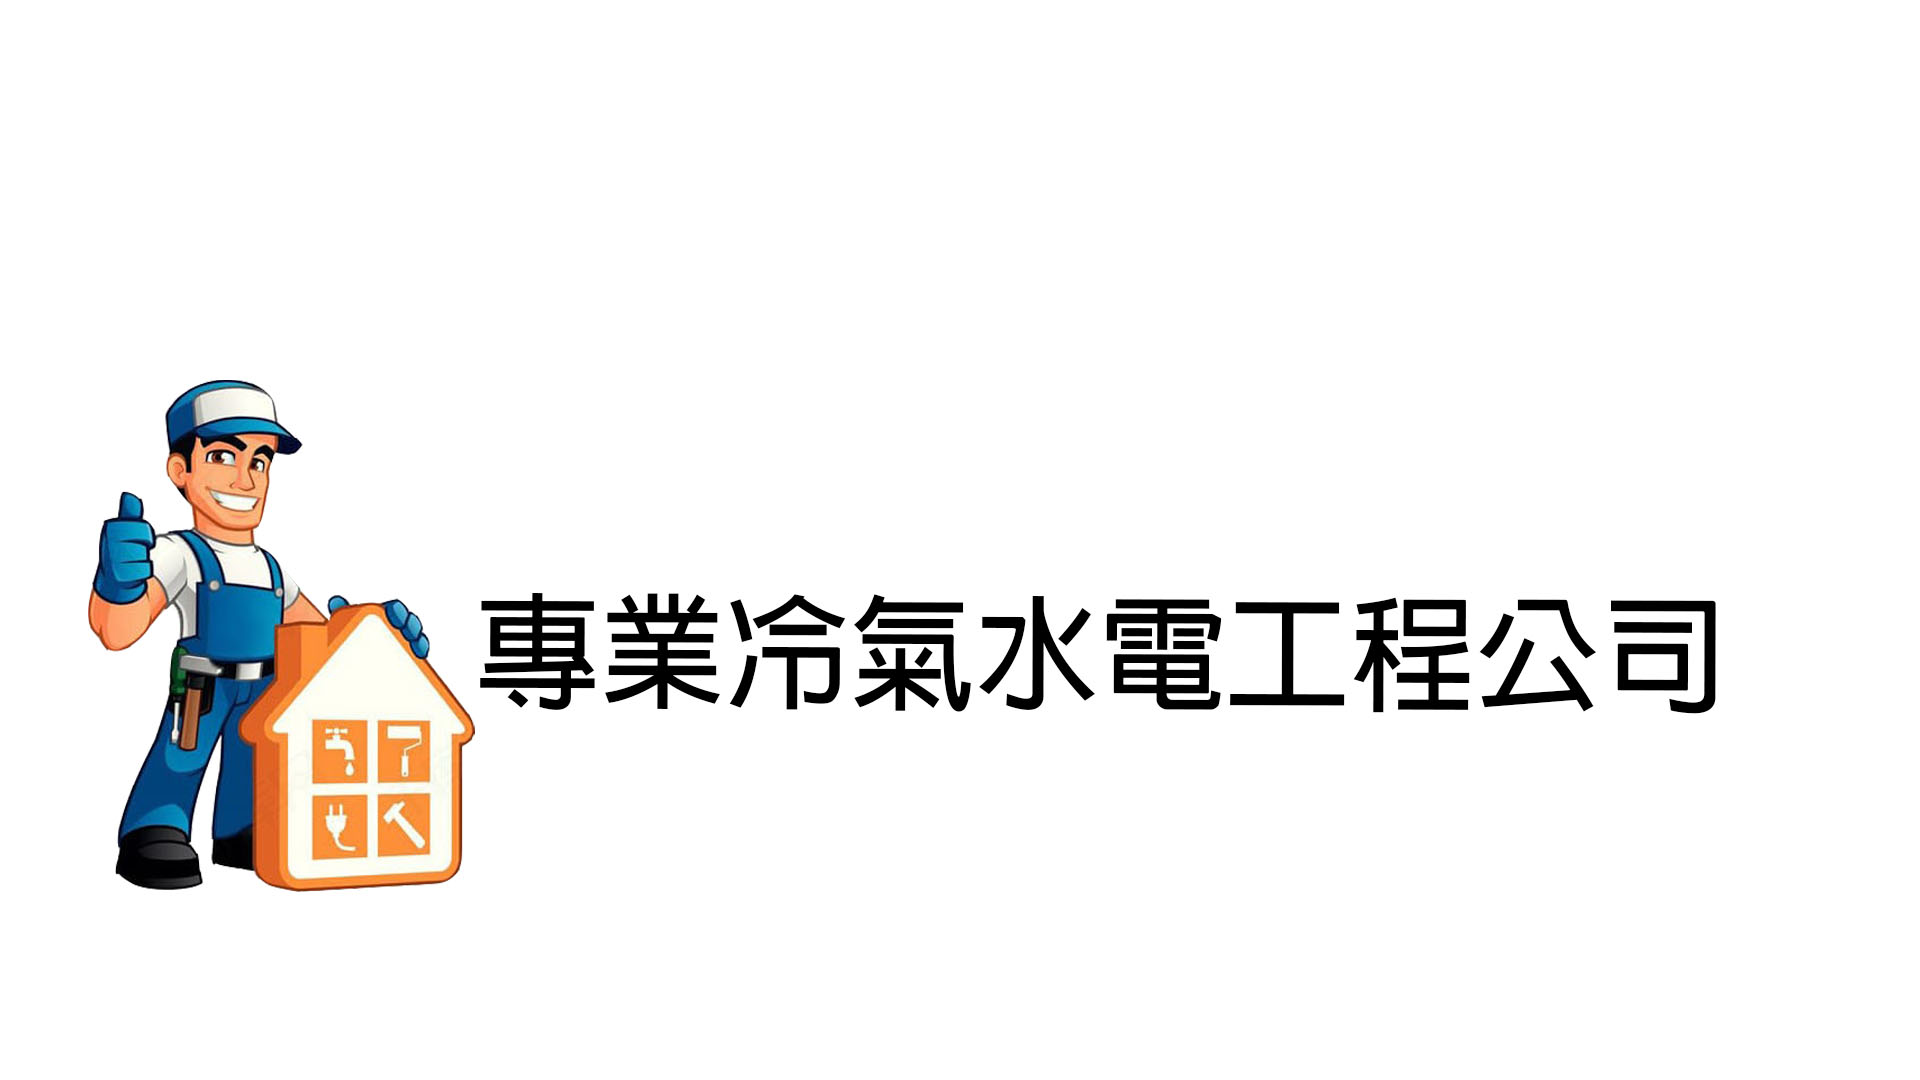
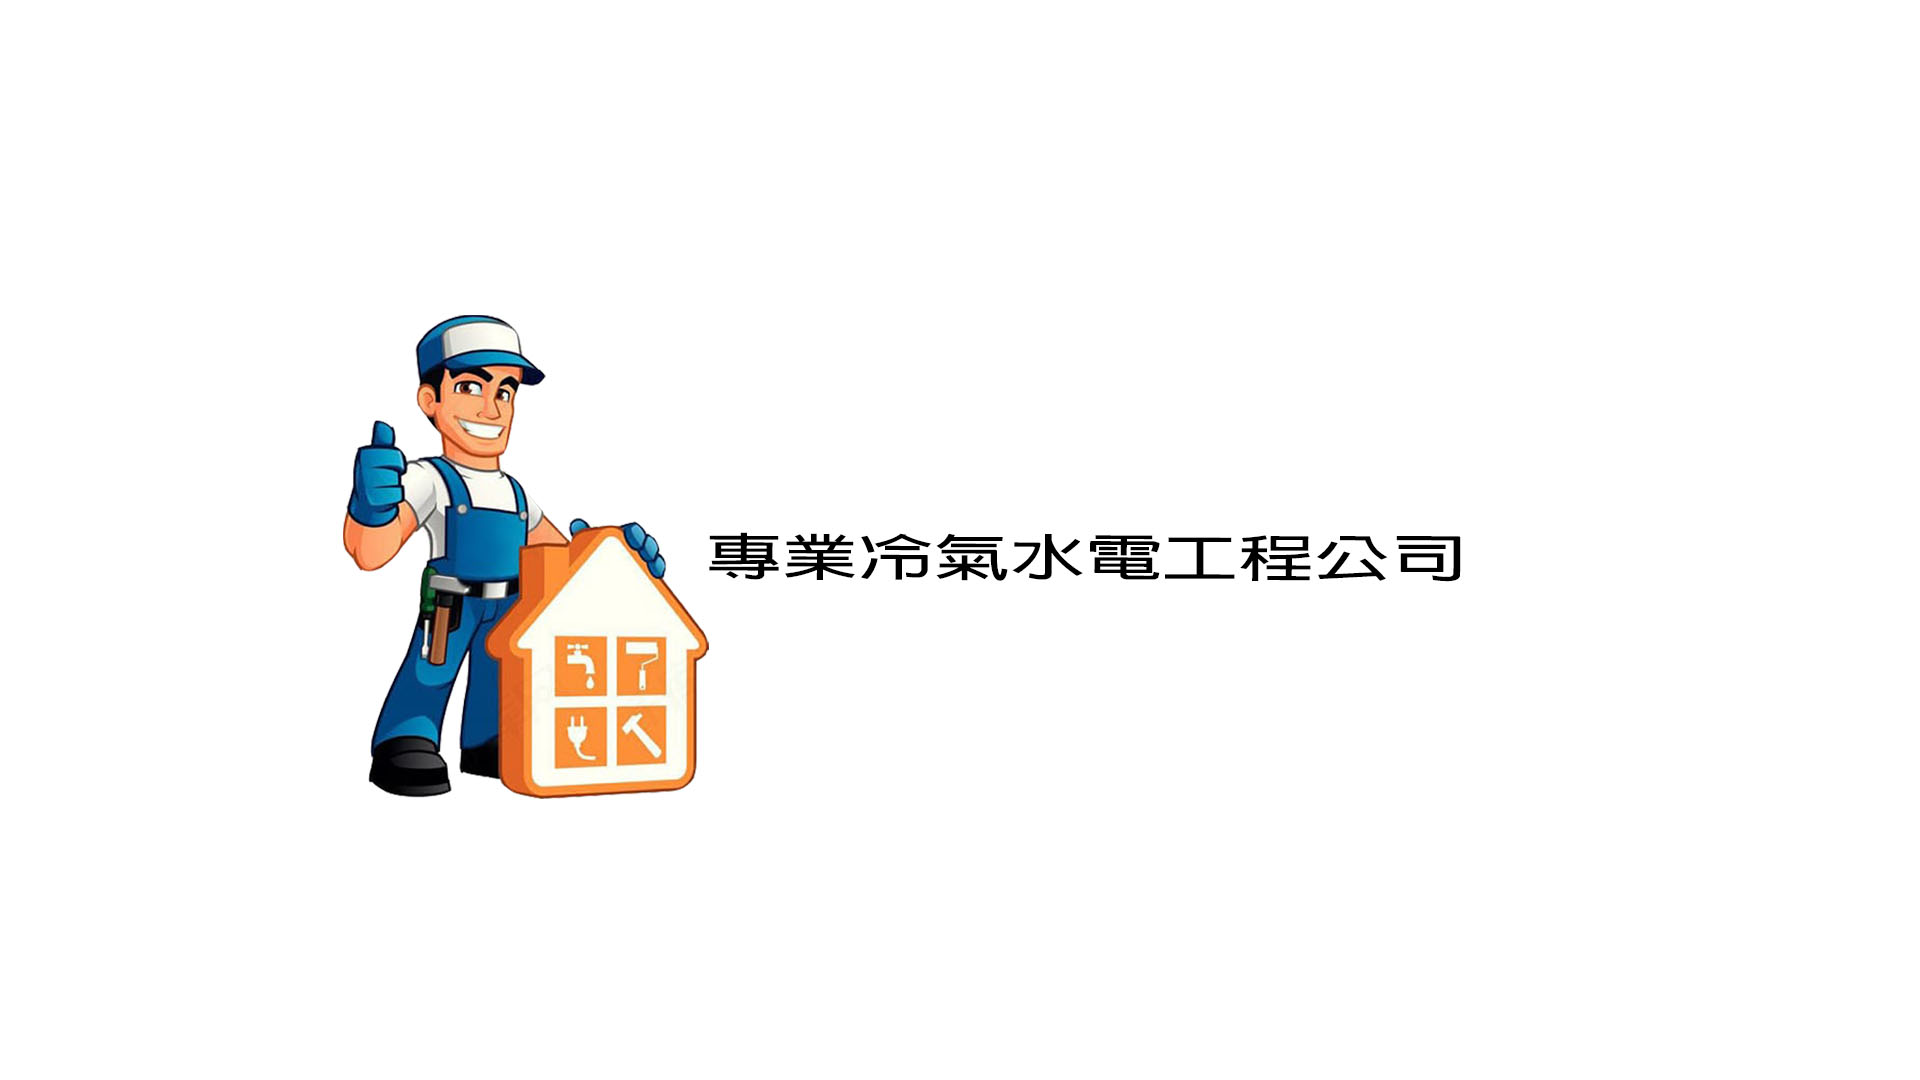
123123

Changed region(s): [[0.0312, 0.275, 0.9062, 0.825]]

diff --git a/assets/css/main.css b/assets/css/main.css
@@ -2674,7 +2674,7 @@ input, select, textarea {
 /* Banner */
 
 	#banner {
-		background-image: url("../../images/company4.jpg");
+		background-image: url("../../images/company2.jpg");
 		background-position: center center;
 		background-size: cover;
 		height: 28em;
